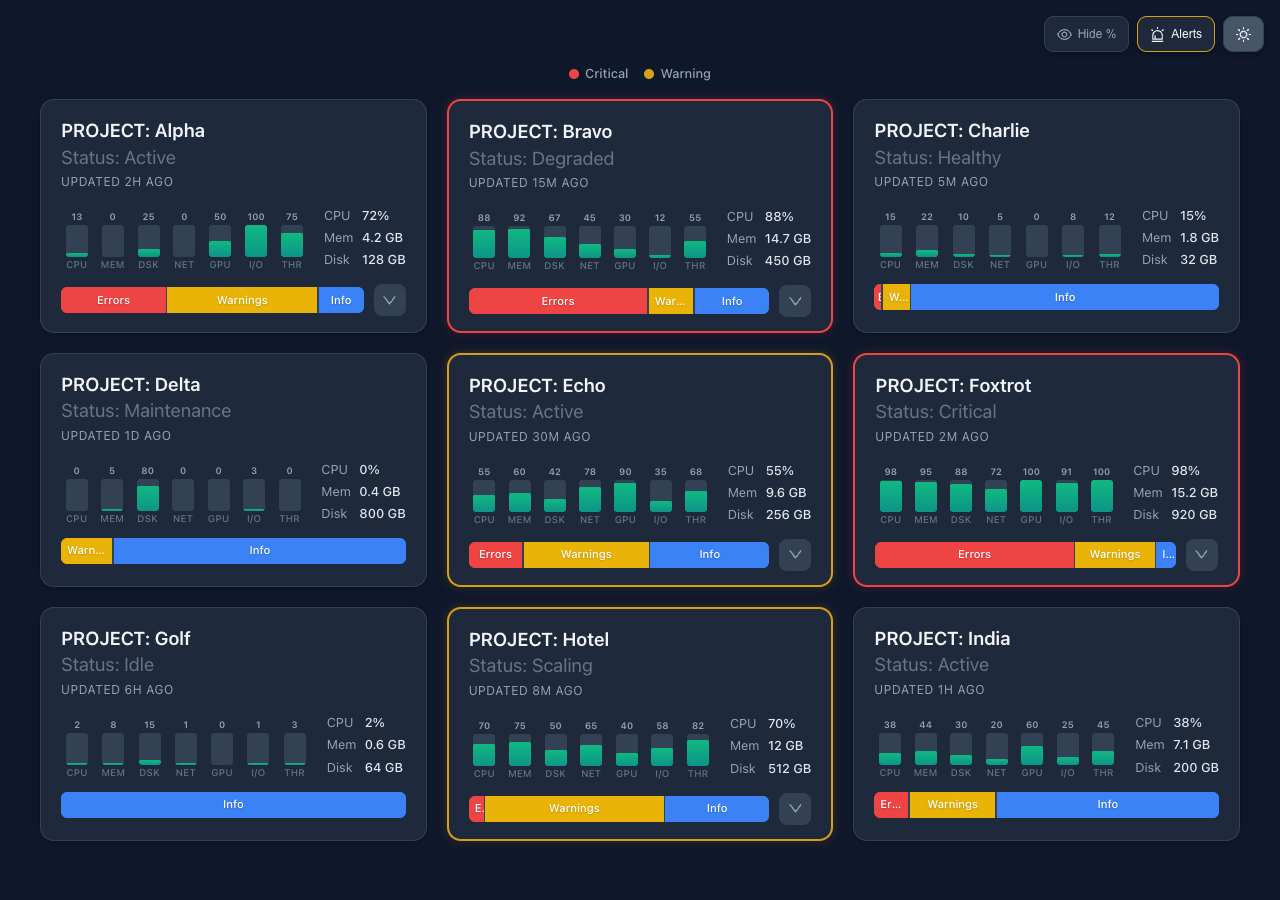
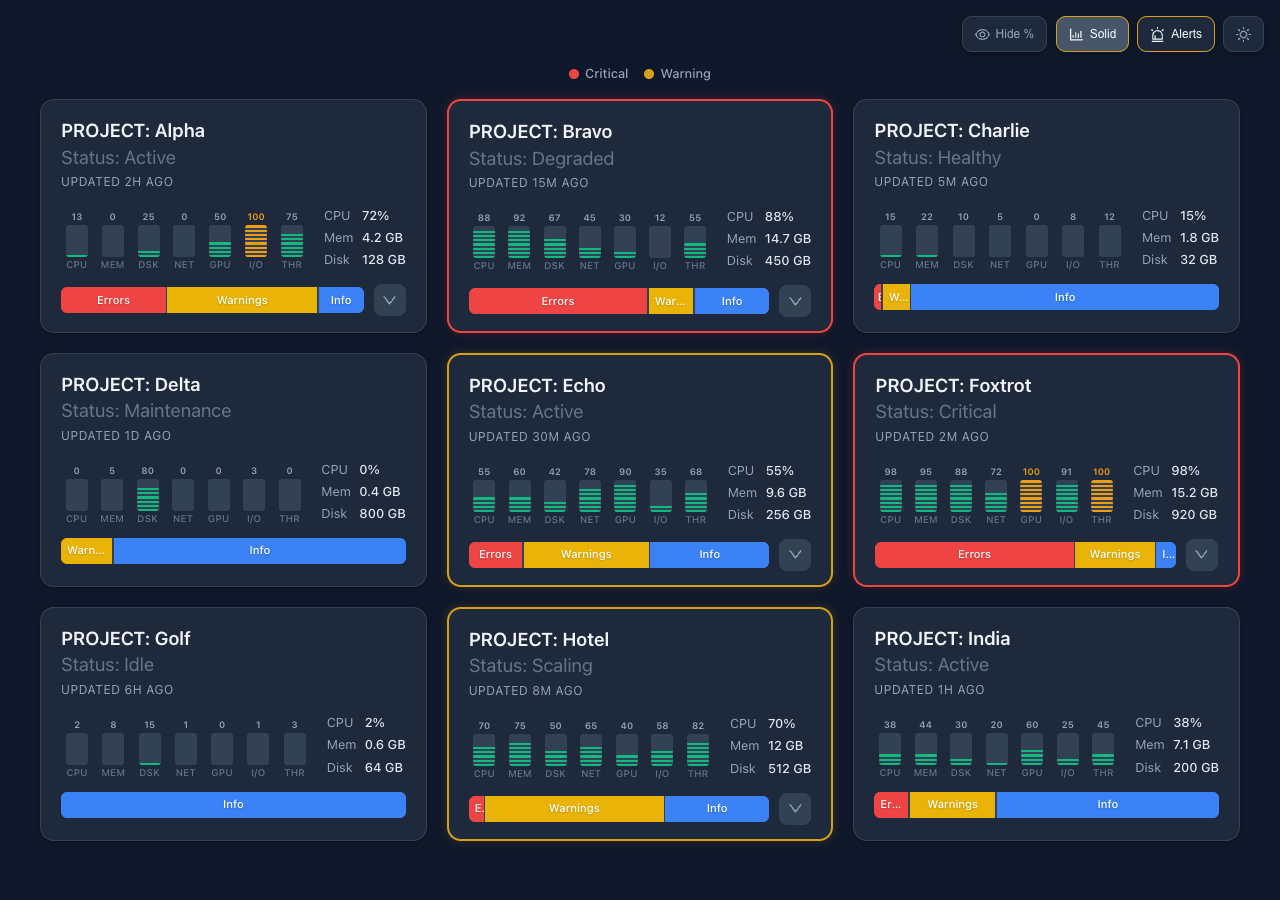
Add segmented gauge mode with 100% color highlight
- 8-segment gauge display as alternative to solid fill bars
- Toolbar toggle to switch between solid and segmented modes
- 100% gauges render in amber/orange (fill, segments, and % label)
- Updated screenshots and README

diff --git a/src/components/StatusCard.tsx b/src/components/StatusCard.tsx
@@ -45,6 +45,8 @@ export interface StatusCardProps {
   onShare?: () => void;
   /** Show percentage numbers above gauge bars */
   showGaugePercent?: boolean;
+  /** Show segmented gauge bars instead of solid */
+  segmentedGauge?: boolean;
   /** Priority level — adds a colored border */
   priority?: CardPriority;
   /** Whether to show priority borders */
@@ -54,31 +56,53 @@ export interface StatusCardProps {
 }
 
 const MAX_BAR_HEIGHT = 32;
+const SEGMENT_COUNT = 8;
 
 function UsageGauge({
   gauges,
   showPercent,
+  segmented,
 }: {
   gauges: UsageGaugeItem[];
   showPercent: boolean;
+  segmented: boolean;
 }) {
   return (
     <div className="usage-gauge">
       {gauges.map((g, i) => {
         const clamped = Math.max(0, Math.min(100, g.percent));
-        const barHeight = Math.max(2, (clamped / 100) * MAX_BAR_HEIGHT);
+        const isMaxed = clamped >= 100;
+        const colorClass = isMaxed ? "maxed" : clamped > 0 ? "filled" : "empty";
+
         return (
           <Tooltip key={i} title={`${g.label}: ${clamped}%`}>
             <div className="gauge-column">
               {showPercent && (
-                <span className="gauge-percent">{Math.round(clamped)}</span>
+                <span className={`gauge-percent ${isMaxed ? "gauge-percent-maxed" : ""}`}>
+                  {Math.round(clamped)}
+                </span>
               )}
-              <div className="gauge-track">
-                <div
-                  className={`gauge-fill ${clamped > 0 ? "filled" : "empty"}`}
-                  style={{ height: barHeight }}
-                />
-              </div>
+              {segmented ? (
+                <div className="gauge-track gauge-track-segmented">
+                  {Array.from({ length: SEGMENT_COUNT }, (_, si) => {
+                    const segThreshold = ((si + 1) / SEGMENT_COUNT) * 100;
+                    const isFilled = clamped >= segThreshold;
+                    return (
+                      <div
+                        key={si}
+                        className={`gauge-segment ${isFilled ? colorClass : "empty"}`}
+                      />
+                    );
+                  })}
+                </div>
+              ) : (
+                <div className="gauge-track">
+                  <div
+                    className={`gauge-fill ${colorClass}`}
+                    style={{ height: Math.max(2, (clamped / 100) * MAX_BAR_HEIGHT) }}
+                  />
+                </div>
+              )}
               <span className="gauge-label">{g.label.slice(0, 3)}</span>
             </div>
           </Tooltip>
@@ -124,6 +148,7 @@ export default function StatusCard({
   segments,
   onShare,
   showGaugePercent = true,
+  segmentedGauge = false,
   priority,
   showPriority = false,
   expandContent,
@@ -156,7 +181,7 @@ export default function StatusCard({
 
       {/* Middle: usage gauge + stats */}
       <div className="card-middle">
-        <UsageGauge gauges={usageGauges} showPercent={showGaugePercent ?? true} />
+        <UsageGauge gauges={usageGauges} showPercent={showGaugePercent ?? true} segmented={segmentedGauge ?? false} />
         <div className="card-stats">
           {stats.map((stat, i) => (
             <div key={i} className="stat-row">

diff --git a/src/App.tsx b/src/App.tsx
@@ -1,9 +1,9 @@
 import { useState, useEffect } from "react";
 import StatusCard, { type StatusCardProps } from "./components/StatusCard";
-import { SunOutlined, MoonOutlined, EyeOutlined, EyeInvisibleOutlined, AlertOutlined } from "@ant-design/icons";
+import { SunOutlined, MoonOutlined, EyeOutlined, EyeInvisibleOutlined, AlertOutlined, BarChartOutlined } from "@ant-design/icons";
 import "./App.css";
 
-const cards: Omit<StatusCardProps, "onShare" | "showGaugePercent" | "showPriority">[] = [
+const cards: Omit<StatusCardProps, "onShare" | "showGaugePercent" | "showPriority" | "segmentedGauge">[] = [
   {
     title: "PROJECT: Alpha",
     subtitle: "Status: Active",
@@ -232,6 +232,7 @@ function App() {
   const [dark, setDark] = useState(false);
   const [showPercent, setShowPercent] = useState(true);
   const [showPriority, setShowPriority] = useState(true);
+  const [segmentedGauge, setSegmentedGauge] = useState(false);
 
   useEffect(() => {
     document.documentElement.classList.toggle("dark", dark);
@@ -248,6 +249,15 @@ function App() {
         >
           {showPercent ? <EyeOutlined /> : <EyeInvisibleOutlined />}
           <span className="toolbar-label">{showPercent ? "Hide %" : "Show %"}</span>
+        </button>
+        <button
+          className={`toolbar-btn ${segmentedGauge ? "toolbar-btn-active" : ""}`}
+          onClick={() => setSegmentedGauge(!segmentedGauge)}
+          aria-label={segmentedGauge ? "Switch to solid gauges" : "Switch to segmented gauges"}
+          title={segmentedGauge ? "Solid" : "Segmented"}
+        >
+          <BarChartOutlined />
+          <span className="toolbar-label">{segmentedGauge ? "Solid" : "Segments"}</span>
         </button>
         <button
           className={`toolbar-btn ${showPriority ? "toolbar-btn-active" : ""}`}
@@ -283,7 +293,7 @@ function App() {
 
       <div className="card-grid">
         {cards.map((card, i) => (
-          <StatusCard key={i} {...card} showGaugePercent={showPercent} showPriority={showPriority} />
+          <StatusCard key={i} {...card} showGaugePercent={showPercent} showPriority={showPriority} segmentedGauge={segmentedGauge} />
         ))}
       </div>
     </div>

diff --git a/src/components/StatusCard.css b/src/components/StatusCard.css
@@ -133,6 +133,10 @@
   min-height: 10px;
 }
 
+.gauge-percent-maxed {
+  color: #f59e0b;
+}
+
 .gauge-track {
   width: 100%;
   max-width: 22px;
@@ -155,7 +159,37 @@
   background: linear-gradient(180deg, #10b981, #0d9488);
 }
 
+.gauge-fill.maxed {
+  background: linear-gradient(180deg, #f59e0b, #d97706);
+}
+
 .gauge-fill.empty {
+  background: transparent;
+}
+
+/* Segmented gauge */
+.gauge-track-segmented {
+  display: flex;
+  flex-direction: column-reverse;
+  gap: 2px;
+  align-items: stretch;
+}
+
+.gauge-segment {
+  flex: 1;
+  border-radius: 2px;
+  transition: background 0.2s;
+}
+
+.gauge-segment.filled {
+  background: #10b981;
+}
+
+.gauge-segment.maxed {
+  background: #f59e0b;
+}
+
+.gauge-segment.empty {
   background: transparent;
 }
 

diff --git a/README.md b/README.md
@@ -20,6 +20,8 @@ A responsive status card dashboard built with React, TypeScript, and Vite. Displ
 
 - **9 Status Cards** in a responsive 3-column grid (3 cols > 2 cols > 1 col)
 - **7 Resource Gauges** per card (CPU, MEM, DSK, NET, GPU, I/O, THR) with proportional fill bars and background tracks
+- **Solid / Segmented gauge modes** — toggle between continuous fill and 8-segment blocks
+- **100% gauges highlighted** in amber/orange to signal resource saturation
 - **Percentage Labels** on gauges with a global toggle to show/hide
 - **Priority Borders** — red for critical cards, gold for warning cards, with a legend and toggle to enable/disable
 - **Dark Theme** with a one-click toggle (sun/moon icon)
